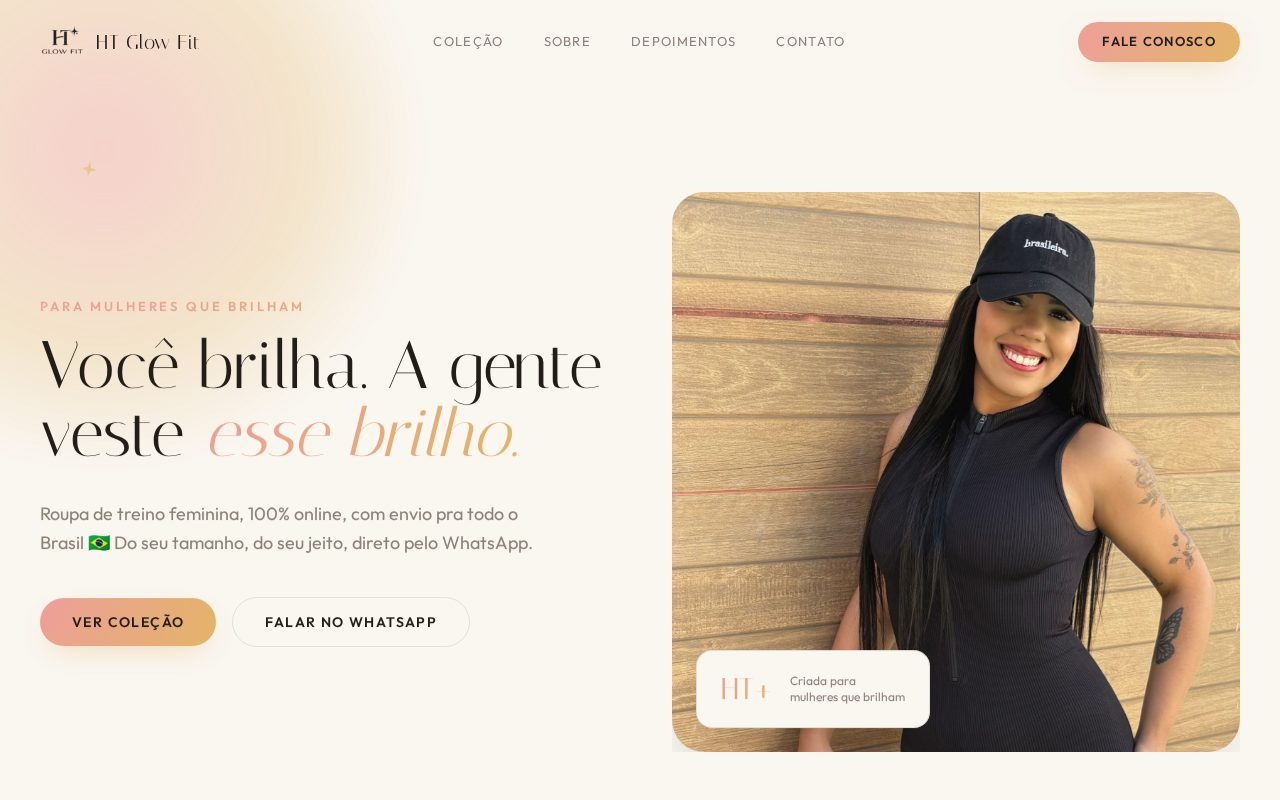
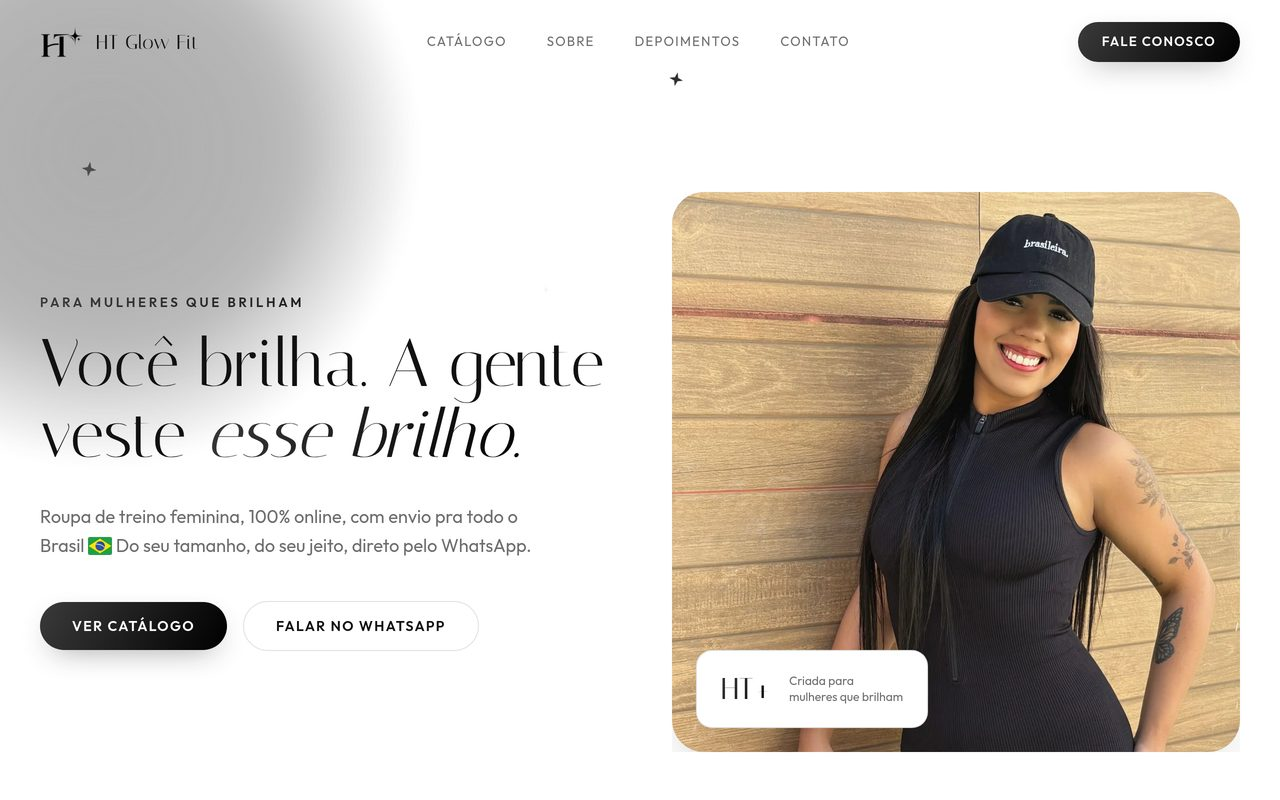
Aponta HT Glow Fit pro domínio final e adiciona Escala de Louvor
- Card da HT Glow Fit passa a apontar pra htglowfit.com, com descrição
  e tags atualizadas pra versão atual: paleta preto e branco, Next.js,
  catálogo em Firestore e painel administrativo em rota oculta
- Captura do card refeita, já na identidade nova
- Novo card do Escala de Louvor (memorial-louvor.web.app), com site ao
  vivo e repositório público

diff --git a/src/data/projects.ts b/src/data/projects.ts
@@ -163,10 +163,20 @@ export const projects: Project[] = [
   {
     title: "HT Glow Fit",
     description:
-      "Landing page para uma marca real de moda fitness feminina, 100% online. Identidade em marfim quente com glow em rosé e dourado, peças reais do catálogo com preço e tamanho, e pedido por WhatsApp já com mensagem pronta por produto. Projeto fechado e no ar.",
-    tags: ["HTML", "Tailwind CSS", "JavaScript"],
+      "Site completo para uma marca real de moda fitness feminina, 100% online, com domínio próprio. Identidade em preto e branco definida junto à cliente, catálogo alimentado por Firestore e painel administrativo em rota oculta, onde ela cadastra produtos e sobe fotos sozinha. Pedido por WhatsApp com mensagem pronta por produto.",
+    tags: ["Next.js", "React 19", "TypeScript", "Tailwind CSS 4", "Firebase"],
     status: "Em produção · Cliente real",
-    demoUrl: "https://glowfit-ht.vercel.app",
+    demoUrl: "https://htglowfit.com",
+    stage: "producao",
+  },
+  {
+    title: "Escala de Louvor",
+    description:
+      "Sistema para igrejas organizarem a escala do ministério de louvor. A escala pública sincroniza em tempo real via Firestore, então o que o admin edita aparece na hora pra quem está com a página aberta, sem refresh. Geração automática de cultos por domingo do mês, exportação da escala como imagem em dois formatos e componentes de interface construídos do zero, sem biblioteca pronta.",
+    tags: ["React 19", "TypeScript", "Vite", "Firestore", "html2canvas"],
+    status: "Em produção",
+    demoUrl: "https://memorial-louvor.web.app",
+    repoUrl: "https://github.com/RamonyML/memorial-louvor",
     stage: "producao",
   },
 ];

diff --git a/src/components/Projects.tsx b/src/components/Projects.tsx
@@ -8,6 +8,7 @@ import jogaeScreenshot from "../assets/project-jogae.jpg";
 import apetiteScreenshot from "../assets/project-apetite.jpg";
 import vigorScreenshot from "../assets/project-vigor.jpg";
 import glowfitScreenshot from "../assets/project-glowfit.jpg";
+import escalaLouvorScreenshot from "../assets/project-escala-louvor.jpg";
 import { TypewriterHeading } from "./TypewriterHeading";
 import { FeaturedProject } from "./FeaturedProject";
 import { projects, type Project } from "../data/projects";
@@ -23,6 +24,7 @@ const IMAGES: Record<string, string> = {
   Apetite: apetiteScreenshot,
   Vigor: vigorScreenshot,
   "HT Glow Fit": glowfitScreenshot,
+  "Escala de Louvor": escalaLouvorScreenshot,
 };
 
 const PLACEHOLDER_ICONS: Record<string, React.ReactNode> = {
